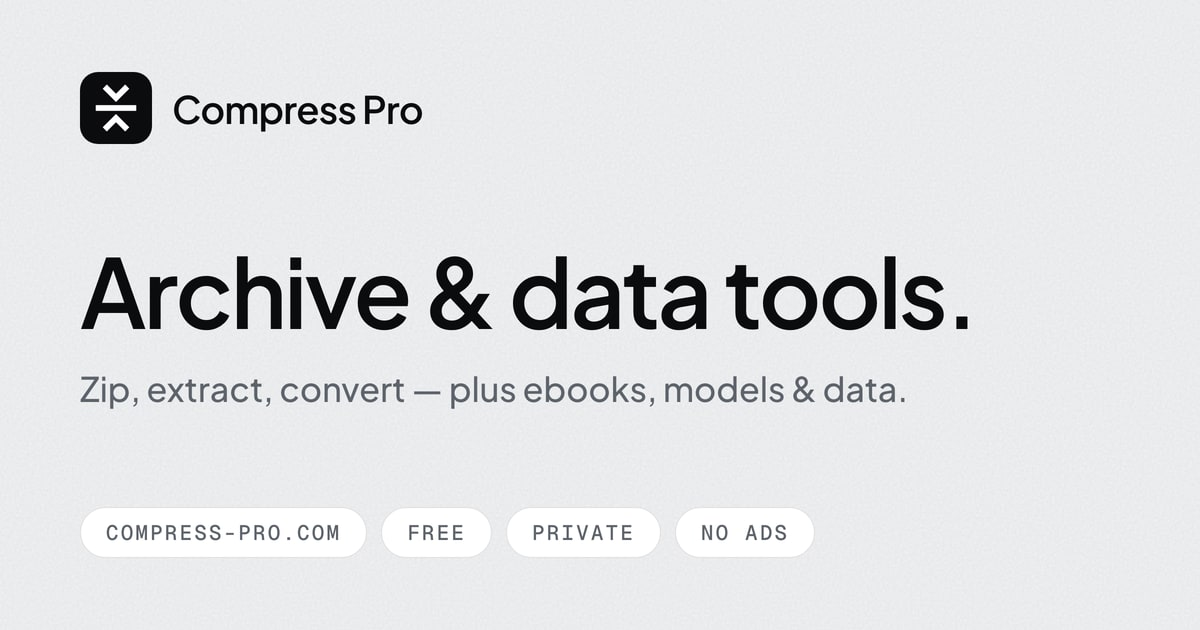
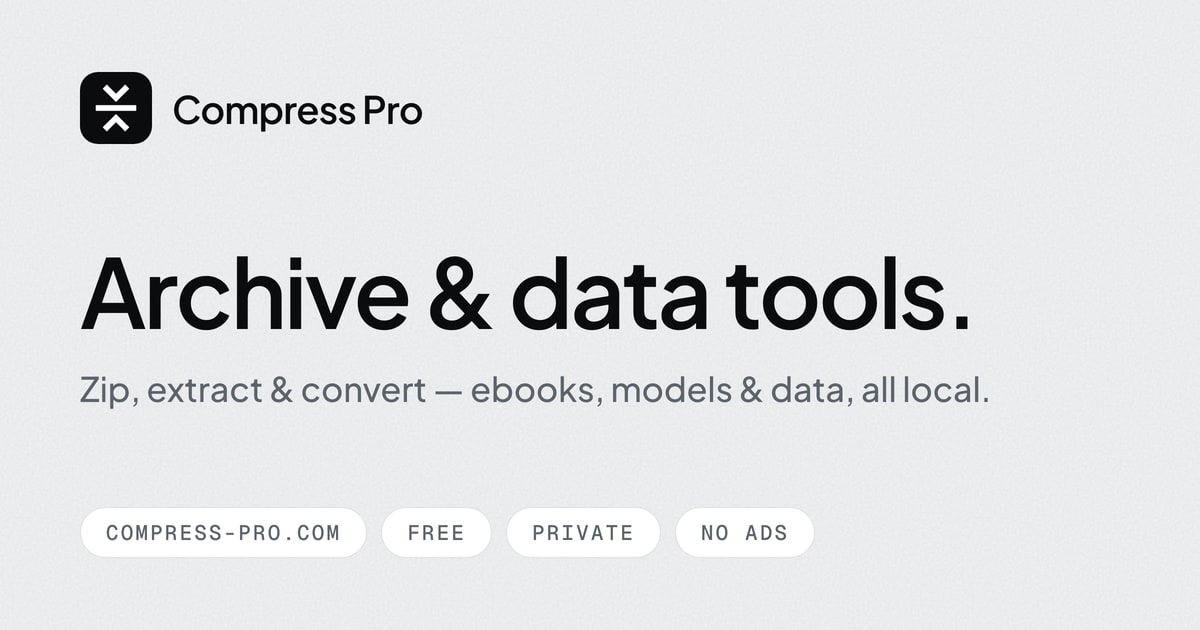
fix: copy polish — bold privacy claims on hub intros, no upload wording in merge demo

Changed region(s): [[0.2158, 0.6032, 0.8325, 0.6635]]

diff --git a/src/lib/seo-categories.ts b/src/lib/seo-categories.ts
@@ -52,7 +52,7 @@ export const CATEGORIES: readonly FullCategoryEntry[] = [
 			'Download the results — nothing was ever uploaded.'
 		],
 		intro:
-			'One engine room, many doors. Every image tool here shares the same local pipeline — MozJPEG, OxiPNG, libwebp, LibRaw and Tesseract compiled to WebAssembly — so whichever door you walk through, photos are processed on your own device and never uploaded. **The pages differ only in what they preconfigure.**',
+			'One engine room, many doors. Every image tool here shares the same local pipeline — MozJPEG, OxiPNG, libwebp, LibRaw and Tesseract compiled to WebAssembly — so whichever door you walk through, **photos are processed on your own device and never uploaded.** The pages differ only in what they preconfigure.',
 		directory: directoryFor('/image-tools'),
 		faq: [
 			{
@@ -200,7 +200,7 @@ export const CATEGORIES: readonly FullCategoryEntry[] = [
 			'Download the archive or its contents — nothing was uploaded.'
 		],
 		intro:
-			'One 7-Zip engine, compiled to WebAssembly, opens more or less everything ever called an archive — ZIP and 7Z through RAR, ISO, DEB and formats from the floppy era. The same corner of the site houses the structured-file tools: **ebooks, 3D models and spreadsheet data**, each recompressed or converted with its own specialist engine, all locally.',
+			'One 7-Zip engine, compiled to WebAssembly, opens more or less everything ever called an archive — ZIP and 7Z through RAR, ISO, DEB and formats from the floppy era. The same corner of the site houses the structured-file tools: ebooks, 3D models and spreadsheet data, each recompressed or converted with its own specialist engine — **all locally, nothing uploaded.**',
 		directory: directoryFor('/archive-tools'),
 		faq: [
 			{

diff --git a/src/lib/components/DemoCompare.svelte b/src/lib/components/DemoCompare.svelte
@@ -250,7 +250,7 @@
 					creditPrefix: '',
 					toolName: 'Merge PDF',
 					lede: `these two documents — ${parts} pages — went through the`,
-					body: `tool and came out as one ${m?.pages}-page PDF, assembled by pdf-lib on your device. Pages are copied structurally — nothing is re-encoded, so text and images stay byte-identical to their sources. The upload order is the page order; drop your own files in and the table above is exactly what you'll see.`,
+					body: `tool and came out as one ${m?.pages}-page PDF, assembled by pdf-lib on your device. Pages are copied structurally — nothing is re-encoded, so text and images stay byte-identical to their sources. The order you add them is the page order; drop your own files in and the table above is exactly what you'll see.`,
 					beforeAlt: '',
 					afterAlt: ''
 				};

diff --git a/docs/og-images.md b/docs/og-images.md
@@ -170,6 +170,6 @@ each entry in `src/lib/seo.ts` — pages without one fall back to `/og.jpg`.
 | `/video-audio-tools`       | Video & audio tools.  | Shrink, convert, extract — on your own hardware.               |
 | `/pdf-tools`               | PDF tools.            | Compress, merge, split, protect — never uploaded.              |
 | `/font-tools`              | Font tools.           | Convert, subset, instance — web-ready, on-device.              |
-| `/archive-tools`           | Archive & data tools. | Zip, extract, convert — plus ebooks, models & data.            |
+| `/archive-tools`           | Archive & data tools. | Zip, extract & convert — ebooks, models & data, all local.     |
 | `/about`                   | About Compress Pro.   | Free, open source — and your files never leave your device.    |
 | `/privacy`                 | Privacy.              | No uploads, no cookies, no analytics — nothing to leak.        |
